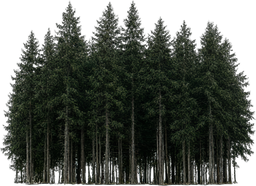
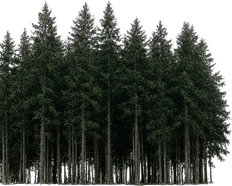
fix: 極寒の壁画像の左端を切り、極寒と砂漠の霧を狭めた。カメラの描画距離を霧の終わりに合わせ、遠くを描かない形にして負荷を軽減

diff --git a/public/js/game.js b/public/js/game.js
@@ -519,6 +519,15 @@ export class GameEngine {
         this.scene.fog.near = b.from.fogNear + (b.to.fogNear - b.from.fogNear) * k;
         this.scene.fog.far = b.from.fogFar + (b.to.fogFar - b.from.fogFar) * k;
         this.scene.background = b.from.sky.clone().lerp(b.to.sky, k);
+        this.fitCameraFar();
+    }
+
+    // 霧で見えなくなる距離より先は描画しない（カメラの描画距離を霧の終わりに合わせる。CPU 負荷の軽減）
+    fitCameraFar() {
+        const far = Math.min(100, (this.scene.fog?.far ?? 96) + 4);
+        if (Math.abs(this.camera.far - far) < 0.5) return;
+        this.camera.far = far;
+        this.camera.updateProjectionMatrix();
     }
 
     // 世界の並びの中のマップなら、隣のマップがある方向の外側に、隣の地面を遠くまで敷く。隣がない方向は、何も描かない（空だけ）
@@ -635,6 +644,7 @@ export class GameEngine {
         this.ambientLight.color.setHex(env.ambientLight || 0x555555);
         this.dirLight.color.setHex(env.directionalLight || 0xffffff);
         this.scene.fog = new THREE.Fog(env.fogColor || 0x000000, env.fogNear || 10, env.fogFar || 50);
+        this.fitCameraFar();
         // 地形ごとの視界係数（敵の感知距離・未発見の敵の描画距離に掛かる。未指定は 1.0）
         this.visibility = env.visibility ?? 1.0;
         this.scene.background = new THREE.Color(env.skyColor || 0x000000);
